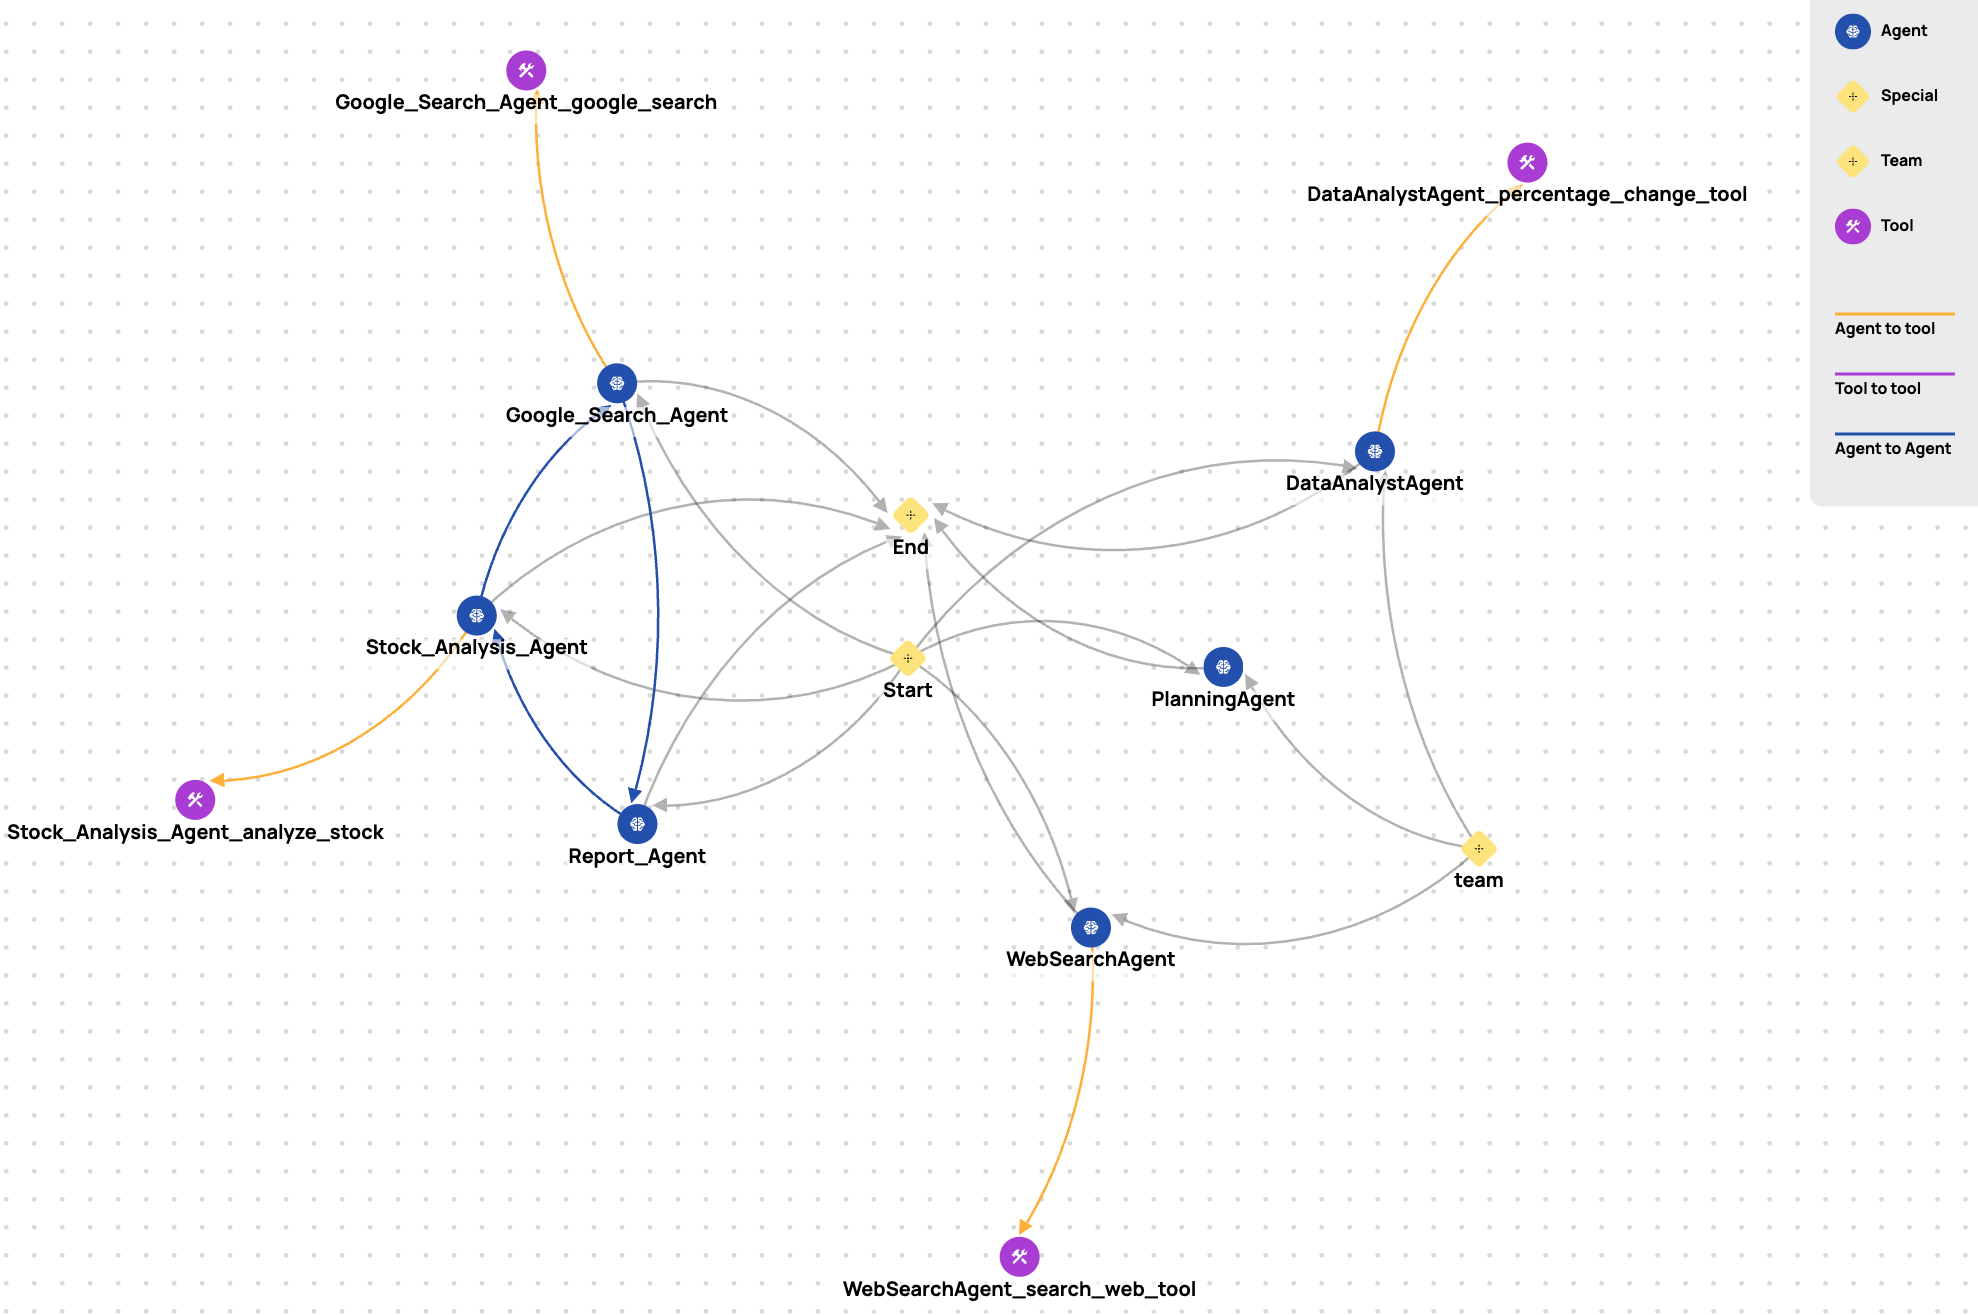
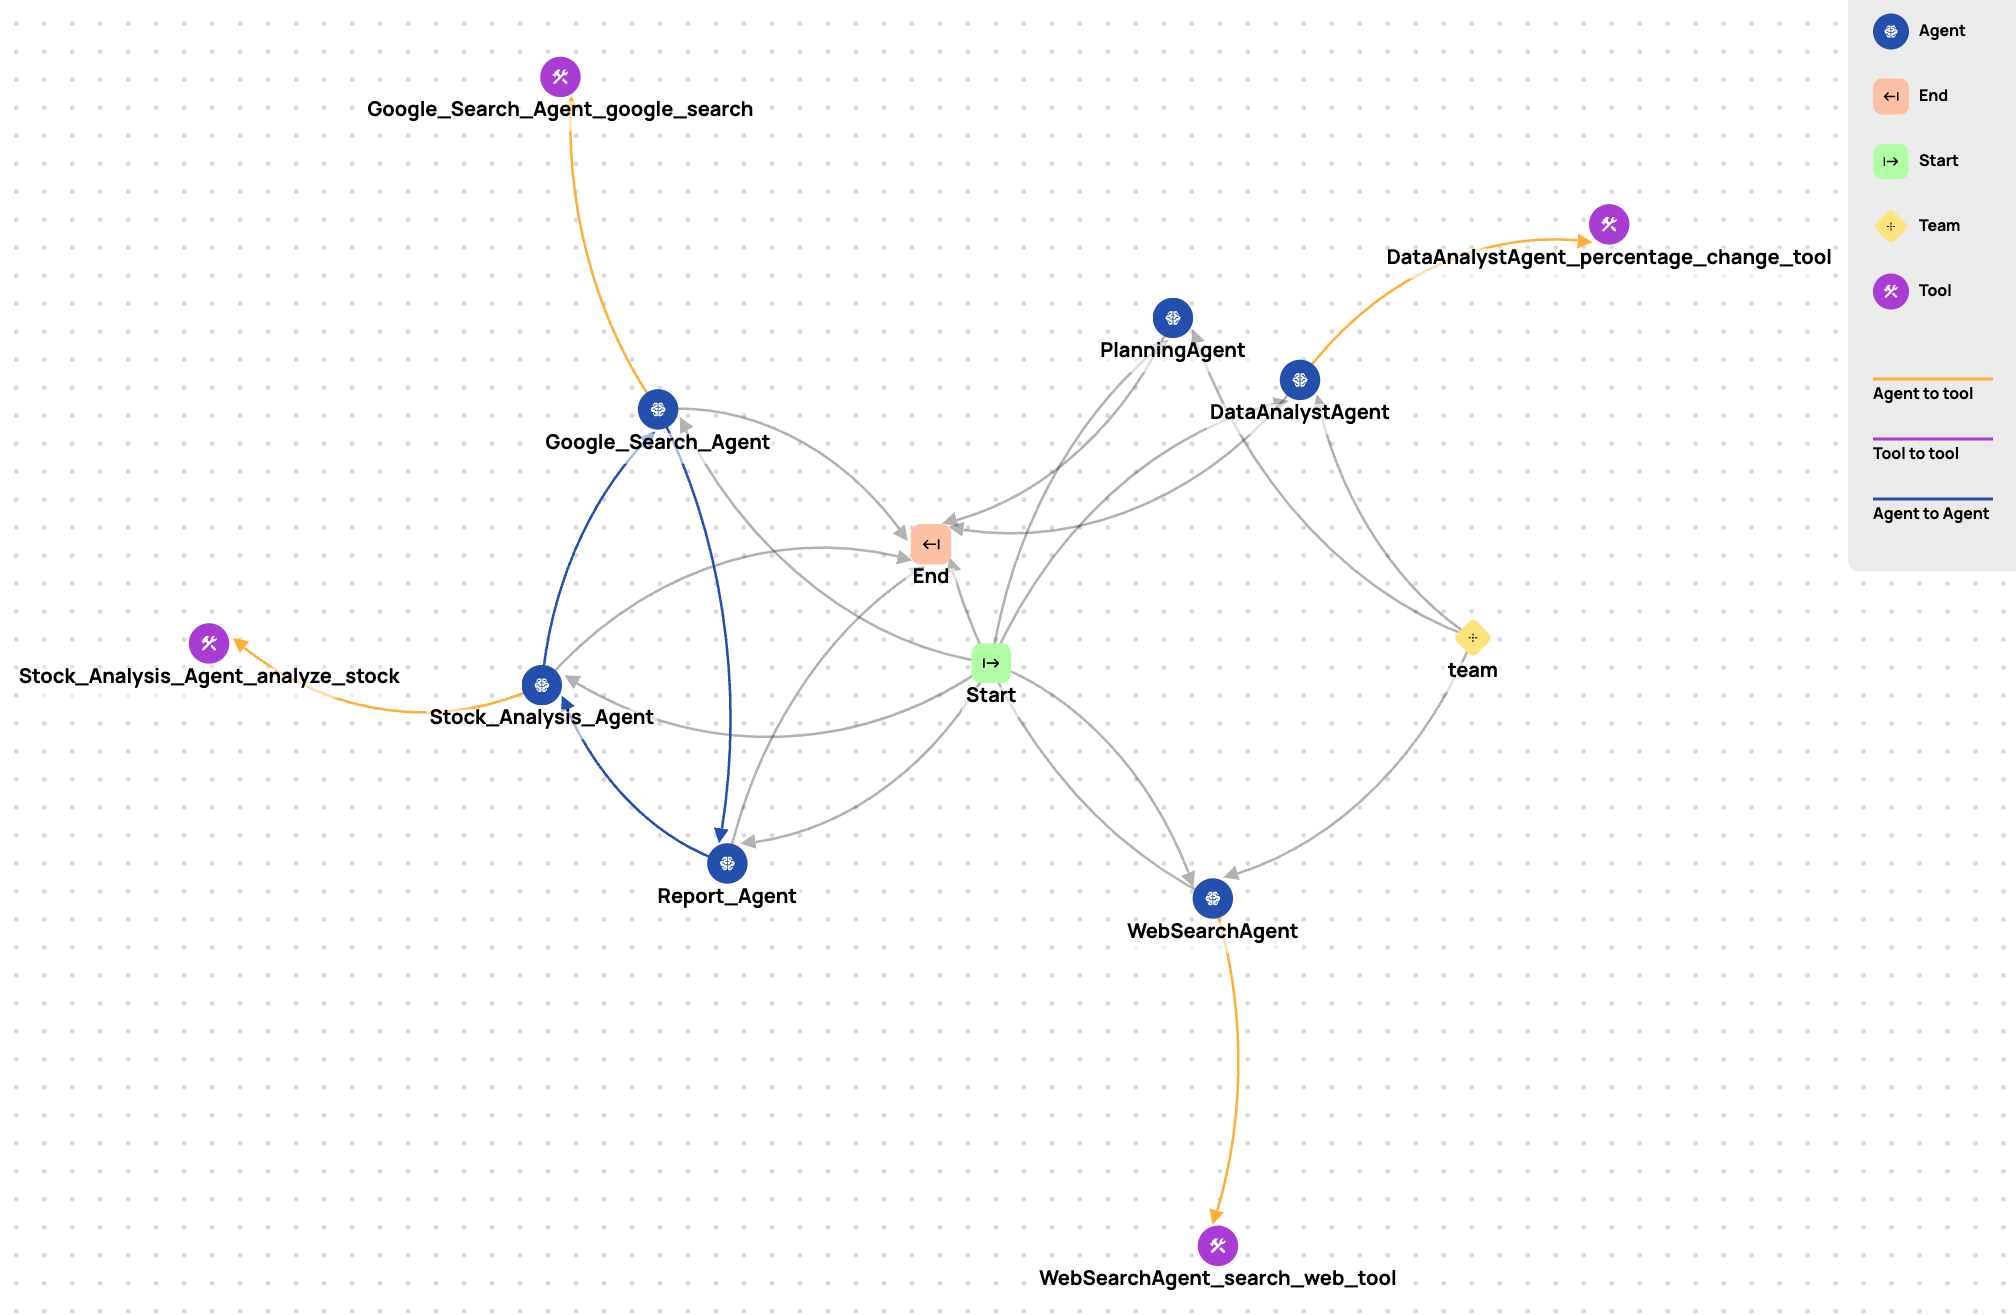
Start end fix (#5)
* fix image size

* updated readme for open ai key need

* fix start end nodes type for autogen, agent_chat, llama_index & swarm

* rename proj to agent-wiz

diff --git a/src/agent_wiz/visualizers/visualizer.py b/src/agent_wiz/visualizers/visualizer.py
@@ -5,7 +5,7 @@ from pathlib import Path
 
 
 def generate_visualization(json_path: str, open_browser: bool = False):
-    import agent_shadow.templates
+    import agent_wiz.templates
 
     # Read framework name from JSON
     with open(json_path, "r") as f:
@@ -16,12 +16,12 @@ def generate_visualization(json_path: str, open_browser: bool = False):
     output_dir.mkdir(exist_ok=True)
 
     # Copy assets
-    assets_path = pkg_resources.files(agent_shadow.templates).joinpath("assets")
+    assets_path = pkg_resources.files(agent_wiz.templates).joinpath("assets")
     target_assets_path = output_dir / "assets"
     shutil.copytree(assets_path, target_assets_path, dirs_exist_ok=True)
 
     # Copy index.html and inject graph JSON
-    index_template = pkg_resources.files(agent_shadow.templates).joinpath("index.html")
+    index_template = pkg_resources.files(agent_wiz.templates).joinpath("index.html")
     index_text = index_template.read_text(encoding="utf-8")
 
     json_string = json.dumps(graph, indent=2)

diff --git a/src/agent_wiz/frameworks/swarm/mapper.py b/src/agent_wiz/frameworks/swarm/mapper.py
@@ -239,8 +239,8 @@ def extract_swarm_graph(directory, output_file):
     all_nodes, all_edges = [], []
 
     # Add a single shared Start and End node
-    all_nodes.insert(0, {"name": "Start", "function_name": None, "node_type": "Special", "docstring": None, "source_location": None, "metadata": {}})
-    all_nodes.append({"name": "End", "function_name": None, "node_type": "Special", "docstring": None, "source_location": None, "metadata": {}})
+    all_nodes.insert(0, {"name": "Start", "function_name": None, "node_type": "Start", "docstring": None, "source_location": None, "metadata": {}})
+    all_nodes.append({"name": "End", "function_name": None, "node_type": "End", "docstring": None, "source_location": None, "metadata": {}})
 
     for visitor in visitors:
         graph = build_graph_data(visitor)

diff --git a/src/agent_wiz/frameworks/llama_index/mapper.py b/src/agent_wiz/frameworks/llama_index/mapper.py
@@ -105,8 +105,8 @@ def build_graph_data(visitor):
     nodes = []
     edges = []
 
-    nodes.append({"name": "Start", "function_name": None, "node_type": "Special", "docstring": None, "source_location": None, "metadata": {}})
-    nodes.append({"name": "End", "function_name": None, "node_type": "Special", "docstring": None, "source_location": None, "metadata": {}})
+    nodes.append({"name": "Start", "function_name": None, "node_type": "Start", "docstring": None, "source_location": None, "metadata": {}})
+    nodes.append({"name": "End", "function_name": None, "node_type": "End", "docstring": None, "source_location": None, "metadata": {}})
 
     for agent_name, agent_data in visitor.agents.items():
         nodes.append({

diff --git a/src/agent_wiz/frameworks/autogen/mapper.py b/src/agent_wiz/frameworks/autogen/mapper.py
@@ -174,7 +174,7 @@ def build_graph_data(visitor: AutoGenMapper):
         "name": "Start",
         "function_name": None,
         "docstring": None,
-        "node_type": "Special",
+        "node_type": "Start",
         "source_location": None,
         "metadata": {}
     })
@@ -182,7 +182,7 @@ def build_graph_data(visitor: AutoGenMapper):
         "name": "End",
         "function_name": None,
         "docstring": None,
-        "node_type": "Special",
+        "node_type": "End",
         "source_location": None,
         "metadata": {}
     })

diff --git a/src/agent_wiz/frameworks/agent_chat/mapper.py b/src/agent_wiz/frameworks/agent_chat/mapper.py
@@ -150,7 +150,7 @@ def build_graph_data(visitor):
         "name": start,
         "function_name": None,
         "docstring": None,
-        "node_type": "Special",
+        "node_type": "Start",
         "source_location": None,
         "metadata": {}
     })
@@ -158,7 +158,7 @@ def build_graph_data(visitor):
         "name": end,
         "function_name": None,
         "docstring": None,
-        "node_type": "Special",
+        "node_type": "End",
         "source_location": None,
         "metadata": {}
     })

diff --git a/src/agent_wiz/cli.py b/src/agent_wiz/cli.py
@@ -5,7 +5,7 @@ from .visualizers.visualizer import generate_visualization
 
 
 def main():
-    parser = argparse.ArgumentParser(description="Agentic Shadow CLI: Extract, Analyze, Visualize agentic workflows.")
+    parser = argparse.ArgumentParser(description="Agent Wiz CLI: Extract, Analyze, Visualize agentic workflows.")
     subparsers = parser.add_subparsers(dest="command", required=True)
 
     # --- Extract command ---

diff --git a/src/agent_wiz/analyzers/threat_modelling.py b/src/agent_wiz/analyzers/threat_modelling.py
@@ -1,8 +1,11 @@
-import json
 import os
-import importlib.resources as pkg_resources
-from agent_shadow import analyzers
+import json
+
 from openai import OpenAI
+import importlib.resources as pkg_resources
+
+from agent_wiz import analyzers
+
 
 def generate_maestro_analysis_report(json_path: str):
     # Load embedded files
